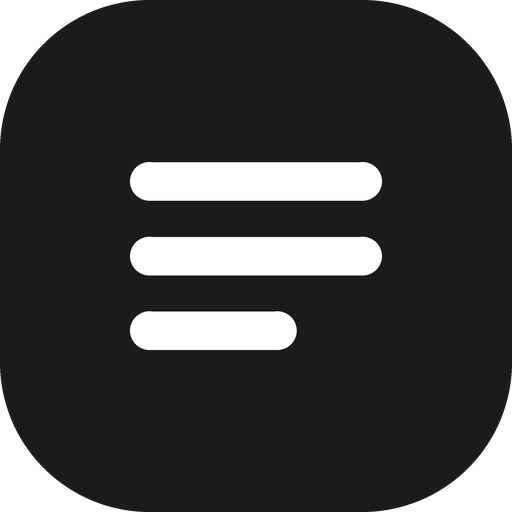
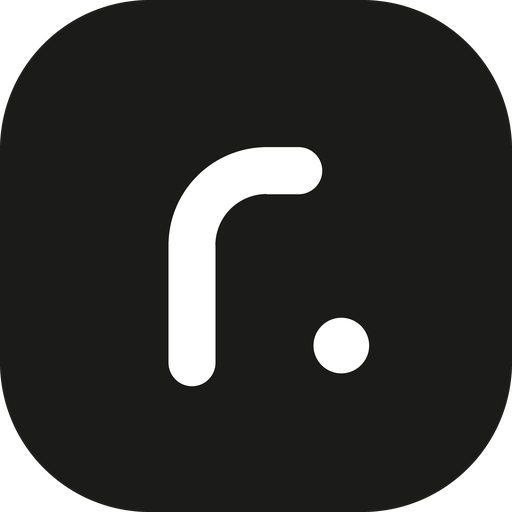
Rename the product to Rizzoto
New name across the website, dashboard, POS header, login emails and the
Windows app (window title, tray, settings, installer Rizzoto-Setup.exe).
The logo mark is now a lowercase "r." used for the favicon and app icons.

Changed region(s): [[0.25, 0.2812, 0.75, 0.75]]

diff --git a/window/src/main.ts b/window/src/main.ts
@@ -53,7 +53,7 @@ async function runHub() {
   } catch (err) {
     const busy = (err as NodeJS.ErrnoException).code === 'EADDRINUSE';
     dialog.showErrorBox(
-      'Counter POS',
+      'Rizzoto',
       busy
         ? `Port ${config.port} is already in use. Pick another port in Settings.`
         : `The local hub could not start: ${(err as Error).message}`,
@@ -71,8 +71,8 @@ function showStatus(status: HubStatus) {
       : status.mode === 'syncing'
         ? `Syncing ${status.pending}`
         : `Offline${status.pending ? `, ${status.pending} to sync` : ''}`;
-  tray?.setToolTip(`Counter POS: ${label}`);
-  main?.setTitle(`Counter POS (${label})`);
+  tray?.setToolTip(`Rizzoto: ${label}`);
+  main?.setTitle(`Rizzoto (${label})`);
   settings?.webContents.send('hub:status', status);
 }
 
@@ -89,7 +89,7 @@ function showMain() {
     width: 1280,
     height: 800,
     show: false,
-    title: 'Counter POS',
+    title: 'Rizzoto',
     icon: path.join(assets, 'icon.png'),
     autoHideMenuBar: true,
     backgroundColor: '#ffffff',
@@ -145,7 +145,7 @@ function openSettings() {
     height: 680,
     resizable: false,
     minimizable: false,
-    title: 'Counter POS settings',
+    title: 'Rizzoto settings',
     icon: path.join(assets, 'icon.png'),
     autoHideMenuBar: true,
     parent: main?.isVisible() ? main : undefined,
@@ -164,7 +164,7 @@ function openSettings() {
 
 function createTray() {
   tray = new Tray(path.join(assets, 'tray.png'));
-  tray.setToolTip('Counter POS');
+  tray.setToolTip('Rizzoto');
   tray.on('click', showMain);
   tray.setContextMenu(
     Menu.buildFromTemplate([
@@ -218,7 +218,7 @@ ipcMain.handle('settings:printers', async () => {
 
 ipcMain.handle('settings:test-print', async (_e, kind: 'bill' | 'kot') => {
   const html = `<div style="font:13px monospace;width:70mm;text-align:center;padding:4mm 0">
-    Counter POS<br>${kind === 'kot' ? 'Kitchen' : 'Bill'} printer works<br>${new Date().toLocaleString('en-IN')}</div>`;
+    Rizzoto<br>${kind === 'kot' ? 'Kitchen' : 'Bill'} printer works<br>${new Date().toLocaleString('en-IN')}</div>`;
   await printSilently(html, kind === 'kot' ? config.kotPrinter : config.billPrinter);
 });
 
@@ -229,7 +229,7 @@ ipcMain.handle('settings:save', async (_e, input: Partial<Config>) => {
     cloudUrl: cleanUrl(input.cloudUrl ?? config.cloudUrl),
     port: Number(input.port) || config.port,
   };
-  if (!next.cloudUrl) throw new Error('Enter the web address of your Counter account');
+  if (!next.cloudUrl) throw new Error('Enter the web address of your Rizzoto account');
 
   const restart = !hub || next.cloudUrl !== config.cloudUrl || next.port !== config.port;
   config = next;

diff --git a/window/assets/settings.js b/window/assets/settings.js
@@ -38,7 +38,7 @@ function showStatus(status) {
     const dismiss = document.createElement('button');
     dismiss.type = 'button';
     dismiss.textContent = 'Dismiss';
-    dismiss.onclick = () => window.counter.dismiss(f.seq);
+    dismiss.onclick = () => window.rizzoto.dismiss(f.seq);
     li.append(text, dismiss);
     failed.append(li);
   }
@@ -48,11 +48,11 @@ const cleanError = (err) =>
   String(err.message || err).replace(/^Error invoking remote method '[^']+': (Error: )?/, '');
 
 async function init() {
-  const { config, status } = await window.counter.load();
+  const { config, status } = await window.rizzoto.load();
   form.cloudUrl.value = config.cloudUrl;
   form.port.value = config.port;
   form.startWithWindows.checked = config.startWithWindows;
-  const printers = await window.counter.printers().catch(() => []);
+  const printers = await window.rizzoto.printers().catch(() => []);
   fill(form.billPrinter, printers, config.billPrinter);
   fill(form.kotPrinter, printers, config.kotPrinter);
   if (!config.cloudUrl) document.getElementById('save').textContent = 'Save and open POS';
@@ -65,7 +65,7 @@ form.addEventListener('submit', async (event) => {
   const save = document.getElementById('save');
   save.disabled = true;
   try {
-    const status = await window.counter.save({
+    const status = await window.rizzoto.save({
       cloudUrl: form.cloudUrl.value,
       port: Number(form.port.value),
       billPrinter: form.billPrinter.value,
@@ -86,7 +86,7 @@ for (const button of document.querySelectorAll('[data-test]')) {
   button.addEventListener('click', async () => {
     errorBox.textContent = '';
     try {
-      await window.counter.testPrint(button.dataset.test);
+      await window.rizzoto.testPrint(button.dataset.test);
     } catch {
       errorBox.textContent = 'Could not print. Check the printer is on and connected.';
     }
@@ -95,9 +95,9 @@ for (const button of document.querySelectorAll('[data-test]')) {
 
 document.getElementById('sync').addEventListener('click', async (event) => {
   event.target.disabled = true;
-  showStatus(await window.counter.syncNow());
+  showStatus(await window.rizzoto.syncNow());
   event.target.disabled = false;
 });
 
-window.counter.onStatus(showStatus);
+window.rizzoto.onStatus(showStatus);
 init();

diff --git a/apps/api/src/mail/mail.service.ts b/apps/api/src/mail/mail.service.ts
@@ -11,7 +11,7 @@ export class MailService {
   constructor(config: ConfigService) {
     const key = config.get<string>('RESEND_API_KEY');
     this.resend = key ? new Resend(key) : null;
-    this.from = config.get('MAIL_FROM') ?? 'POS <onboarding@resend.dev>';
+    this.from = config.get('MAIL_FROM') ?? 'Rizzoto <onboarding@resend.dev>';
   }
 
   async sendLoginCode(to: string, code: string) {
@@ -25,7 +25,7 @@ export class MailService {
       from: this.from,
       to,
       subject: `${code} is your login code`,
-      text: `Your login code is ${code}. It expires in 10 minutes.\n\nIf you didn't try to sign in, you can ignore this email.`,
+      text: `Your Rizzoto login code is ${code}. It expires in 10 minutes.\n\nIf you didn't try to sign in, you can ignore this email.`,
       html: loginCodeHtml(code),
     });
 
@@ -39,6 +39,7 @@ export class MailService {
 function loginCodeHtml(code: string) {
   return `
   <div style="font-family:-apple-system,Segoe UI,Roboto,sans-serif;max-width:420px;margin:0 auto;padding:32px 24px;color:#1c1917">
+    <p style="margin:0 0 20px;font-size:15px;font-weight:600">Rizzoto</p>
     <p style="margin:0 0 24px;font-size:15px">Use this code to sign in:</p>
     <p style="margin:0 0 24px;font-size:32px;letter-spacing:8px;font-weight:600">${code}</p>
     <p style="margin:0;font-size:13px;color:#78716c">It expires in 10 minutes. If you didn't try to sign in, ignore this email.</p>

diff --git a/apps/web/src/lib/print.ts b/apps/web/src/lib/print.ts
@@ -31,16 +31,16 @@ const STYLE = `
 type Desktop = { print(html: string, kind: 'bill' | 'kot'): Promise<void> };
 
 /**
- * Prints a receipt. In the Counter desktop app it goes straight to the bill
+ * Prints a receipt. In the Rizzoto desktop app it goes straight to the bill
  * or kitchen printer; in a browser it opens the print dialog.
  */
 export function printHtml(body: string, kind: 'bill' | 'kot' = 'bill') {
   const html = `<!doctype html><html><head><meta charset="utf-8"><style>${STYLE}</style></head><body>${body}</body></html>`;
-  const desktop = (window as { counterDesktop?: Desktop }).counterDesktop;
+  const desktop = (window as { rizzotoDesktop?: Desktop }).rizzotoDesktop;
   if (desktop) {
     desktop.print(html, kind).catch(() => {
       toast.error(kind === 'kot' ? 'KOT did not print' : 'Bill did not print', {
-        description: 'Check the printer in Counter POS settings',
+        description: 'Check the printer in Rizzoto settings',
       });
     });
     return;

diff --git a/window/assets/settings.html b/window/assets/settings.html
@@ -6,7 +6,7 @@
       http-equiv="Content-Security-Policy"
       content="default-src 'self'; style-src 'self' 'unsafe-inline'"
     />
-    <title>Counter POS settings</title>
+    <title>Rizzoto settings</title>
     <style>
       * { box-sizing: border-box; }
       body { margin: 0; padding: 24px; font: 14px/1.45 system-ui, sans-serif; color: #1b1b19; background: #fff; }
@@ -43,7 +43,7 @@
     </style>
   </head>
   <body>
-    <h1>Counter POS</h1>
+    <h1>Rizzoto</h1>
     <p>This PC runs the POS and keeps the shop's tablets billing when the internet is down.</p>
 
     <div class="status" id="status" hidden>
@@ -53,7 +53,7 @@
 
     <form id="form">
       <label>
-        Web address of your Counter account
+        Web address of your Rizzoto account
         <input type="text" name="cloudUrl" placeholder="pos.yourshop.in" required />
       </label>
 

diff --git a/window/e2e/hub.spec.ts b/window/e2e/hub.spec.ts
@@ -17,7 +17,7 @@ let dataDir: string;
 let base: string;
 
 test.beforeAll(async () => {
-  dataDir = fs.mkdtempSync(path.join(os.tmpdir(), 'counter-hub-'));
+  dataDir = fs.mkdtempSync(path.join(os.tmpdir(), 'rizzoto-hub-'));
   hub = await startHub({ cloudUrl: CLOUD, dataDir, port: 0, host: '127.0.0.1' });
   base = `http://localhost:${hub.port}`;
 });
@@ -66,7 +66,7 @@ async function setUpCafe(request: APIRequestContext) {
   });
   await request.post('/api/shifts', { data: { outletId, openingCash: 500 } });
   // registered through the hub, so the hub becomes till D1
-  const device = await request.post('/api/devices', { data: { outletId, name: 'Counter PC' } });
+  const device = await request.post('/api/devices', { data: { outletId, name: 'Front PC' } });
   expect(device.ok()).toBeTruthy();
   return { email, outletId };
 }

diff --git a/apps/web/src/components/logo.tsx b/apps/web/src/components/logo.tsx
@@ -1,13 +1,21 @@
 import Link from 'next/link';
 import { cn } from '@/lib/cn';
 
-export const APP_NAME = 'Counter';
+export const APP_NAME = 'Rizzoto';
 
 export function LogoMark({ className }: { className?: string }) {
   return (
     <svg viewBox="0 0 24 24" className={cn('size-6', className)} aria-hidden>
       <rect width="24" height="24" rx="7" className="fill-ink" />
-      <path d="M7 8.5h10M7 12h10M7 15.5h6" stroke="white" strokeWidth="1.8" strokeLinecap="round" />
+      {/* a lowercase "r." */}
+      <path
+        d="M9 17v-5.5A3.5 3.5 0 0 1 12.5 8H14"
+        fill="none"
+        stroke="white"
+        strokeWidth="2.2"
+        strokeLinecap="round"
+      />
+      <circle cx="16" cy="16.2" r="1.3" fill="white" />
     </svg>
   );
 }

diff --git a/window/src/preload.ts b/window/src/preload.ts
@@ -1,8 +1,8 @@
 import { contextBridge, ipcRenderer } from 'electron';
 
 // What the POS page can ask of the desktop app. The web app checks for
-// window.counterDesktop and falls back to the browser print dialog without it.
-contextBridge.exposeInMainWorld('counterDesktop', {
+// window.rizzotoDesktop and falls back to the browser print dialog without it.
+contextBridge.exposeInMainWorld('rizzotoDesktop', {
   print: (html: string, kind: 'bill' | 'kot') => ipcRenderer.invoke('print', html, kind),
   openSettings: () => ipcRenderer.send('open-settings'),
 });

diff --git a/window/src/config.ts b/window/src/config.ts
@@ -32,7 +32,7 @@ export function saveConfig(config: Config) {
   fs.writeFileSync(file(), JSON.stringify(config, null, 2));
 }
 
-/** "counter.example.com" -> "https://counter.example.com", without a trailing slash. */
+/** "pos.example.com" -> "https://pos.example.com", without a trailing slash. */
 export function cleanUrl(input: string) {
   const value = input.trim();
   if (!value) return '';

diff --git a/apps/web/src/app/layout.tsx b/apps/web/src/app/layout.tsx
@@ -5,7 +5,7 @@ import { Providers } from './providers';
 import './globals.css';
 
 export const metadata: Metadata = {
-  title: { default: 'Counter', template: '%s · Counter' },
+  title: { default: 'Rizzoto', template: '%s · Rizzoto' },
   description: 'Billing, menu, tables and staff for restaurants and cafes.',
   icons: { icon: '/favicon.svg' },
 };

diff --git a/window/src/settings-preload.ts b/window/src/settings-preload.ts
@@ -1,6 +1,6 @@
 import { contextBridge, ipcRenderer } from 'electron';
 
-contextBridge.exposeInMainWorld('counter', {
+contextBridge.exposeInMainWorld('rizzoto', {
   load: () => ipcRenderer.invoke('settings:load'),
   save: (config: unknown) => ipcRenderer.invoke('settings:save', config),
   printers: () => ipcRenderer.invoke('settings:printers'),

diff --git a/README.md b/README.md
@@ -1,4 +1,4 @@
-# Counter
+# Rizzoto
 
 Multi-tenant POS for restaurants, cafes and cloud kitchens: billing, KOTs, kitchen display,
 menu, tables, stock, purchases, staff and reports.
@@ -44,9 +44,9 @@ pnpm e2e              # browser test: sign up -> menu -> POS order -> kitchen ->
 the dev server compiles each page on first visit. CI (`.github/workflows/ci.yml`) runs all
 three on every push against production builds.
 
-## Counter PC app (Windows)
+## Rizzoto for Windows (counter PC)
 
-`window/` builds the installer `Counter-POS-Setup-<version>.exe`. Install it on the PC at the billing counter. On first
+`window/` builds the installer `Rizzoto-Setup-<version>.exe`. Install it on the PC at the billing counter. On first
 start it asks for the web address of the account, then opens the POS full screen. It also runs
 a small server (the hub) on port 7400 that the shop's tablets and the kitchen screen use
 instead of the website: settings show the address to open, e.g. `http://192.168.1.20:7400/pos`.
